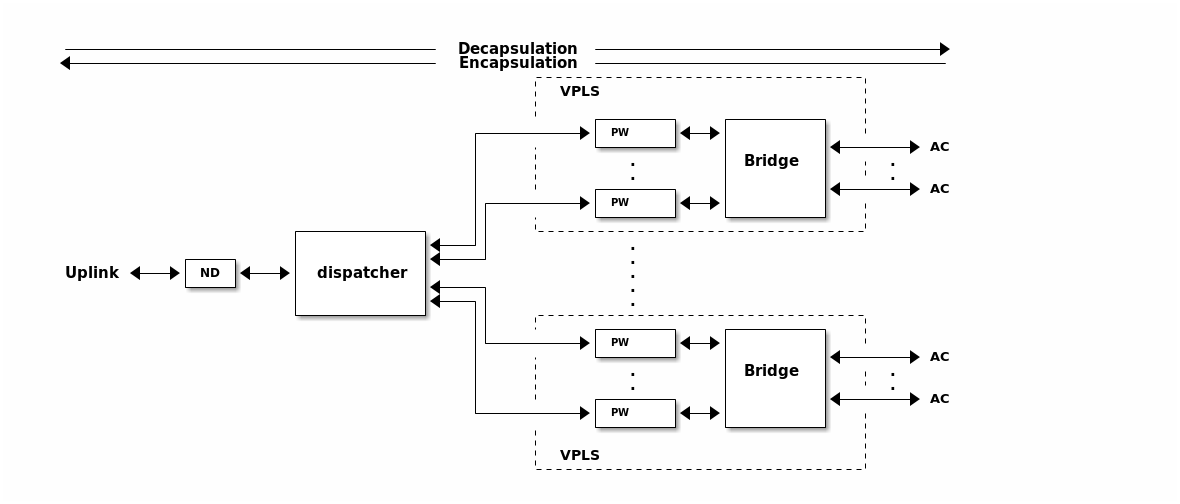
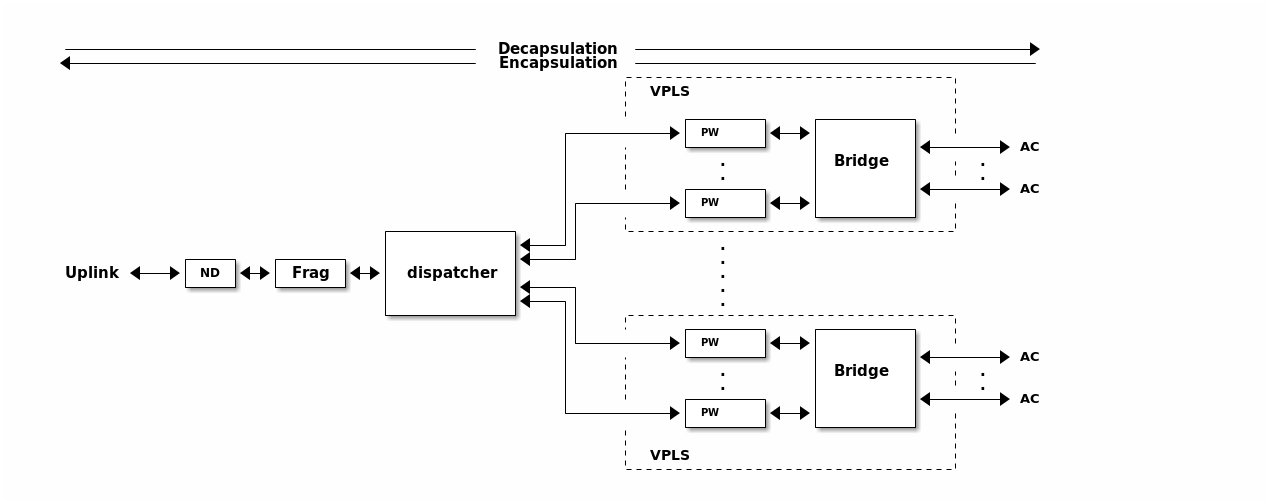
Add IPv6 fragmentation/reassembly to program.l2vpn

diff --git a/src/program/l2vpn/README.md b/src/program/l2vpn/README.md
@@ -196,6 +196,20 @@ inbound direction.  The ND module is the feature that identifies the
 uplink as a "L3-port", while the ACs are L2-ports without the need for
 neighbor discovery.
 
+The box labelled `Frag` is a collections of apps that performs IPv6
+fragmentation and reassembly for packets destined to any of the
+pseudowires connected to the dispatcher. Initially, the path MTU
+(PMTU) for all outgoing packets is equal to the MTU of the uplink
+port, but the fragmenter implements standard PMTU discovery (PMTUD):
+ff any of the packets experiences an MTU bottleneck (i.e. a link along
+the path to the destination whose MTU is smaller than that of the
+uplink port), the corresponding device will generate an appropriate
+ICMP _Packet-Too-Big_ (PTB) message, which will be processed by the
+fragmenter to populate a per-destination PMTU cache.  From that point
+on, packets sent to that destination will be fragmented for that PMTU
+instead of the uplink's MTU.  The cached PMTUD is discarded after 10
+minutes to allow the system to discover an increase of the PMTU,
+e.g. after a routing change.
 
 ![VPN-TP](.images/VPN-TP.png)
 
